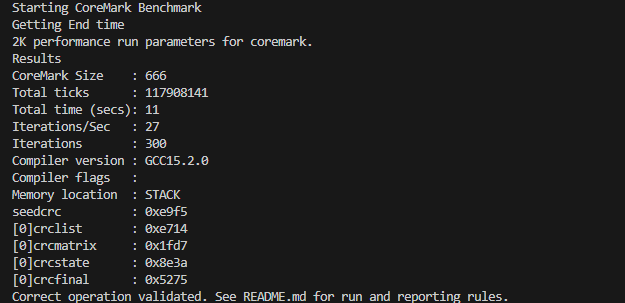
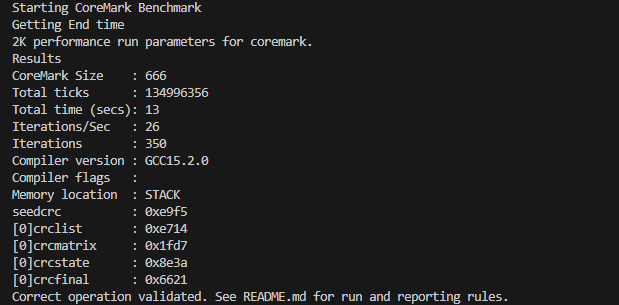
Updated Coremark results

Changed region(s): [[0.0, 0.2079, 0.8288, 1.0], [0.0, 0.0, 0.5218, 0.2079]]

diff --git a/README.md b/README.md
@@ -91,25 +91,25 @@ $$
 The image below shows that the core is working correctly with coremark benchmark. The core has a timer support to count the number of cycles the benchmark execution takes. The benchmark was run by 10MHz but the core gives upto 185MHz on Ultrascale+ (xczu3eg-sbva484-1-i).
 
 $$
-\text{Total Ticks} = \text{117908141}
+\text{Total Ticks} = \text{134996356}
 $$
 $$
 \text{Clock Frequency} = \text{10 MHz}
 $$
 $$
-\text{Total time (secs)} = \frac{\text{Total Ticks}}{\text{Clock Frequency}} = \text{11.79 (Core is Int so 11)} 
+\text{Total time (secs)} = \frac{\text{Total Ticks}}{\text{Clock Frequency}} = \text{13.5 (Core is Int so 13)} 
 $$
 $$
 \text{Iterations} = \text{300}
 $$
 $$
-\text{Iterations/Sec} = \frac{\text{Iterations}}{\text{Total time (secs)}}= \text{25.44 (Core is Int so it become 27)}
+\text{Iterations/Sec} = \frac{\text{Iterations}}{\text{Total time (secs)}}= \text{25.95 (Core is Int so it become 26)}
 $$
 
 These can be used to calculate Coremark results:
 
 $$
-\text{Coremark/MHz} = \frac{\text{Iterations/Sec}}{\text{Clock Frequency (in MHz)}} = \text{2.54}
+\text{Coremark/MHz} = \frac{\text{Iterations/Sec}}{\text{Clock Frequency (in MHz)}} = \text{2.59}
 $$
 
 ![Coremark](imgs/coremark.png)
